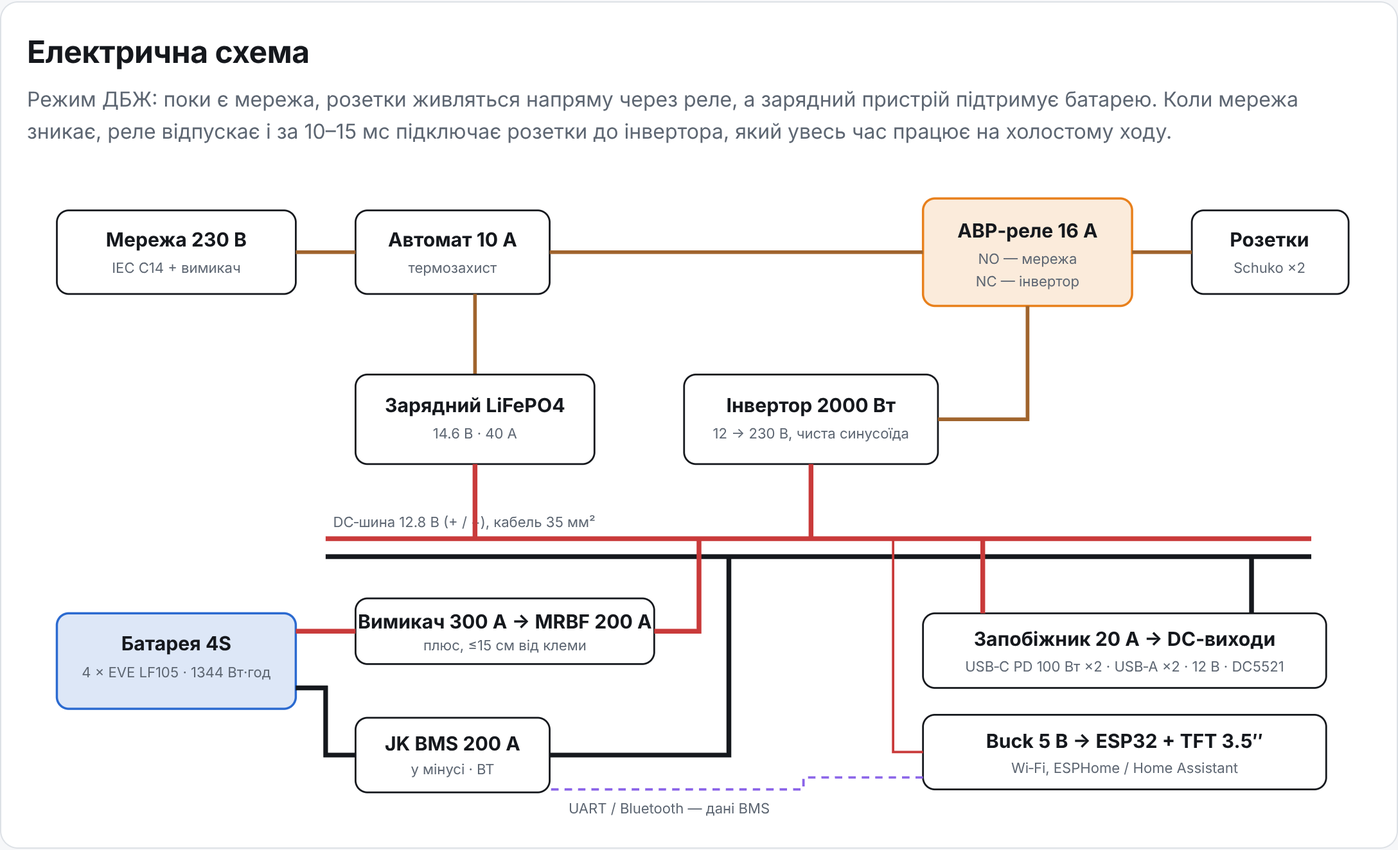
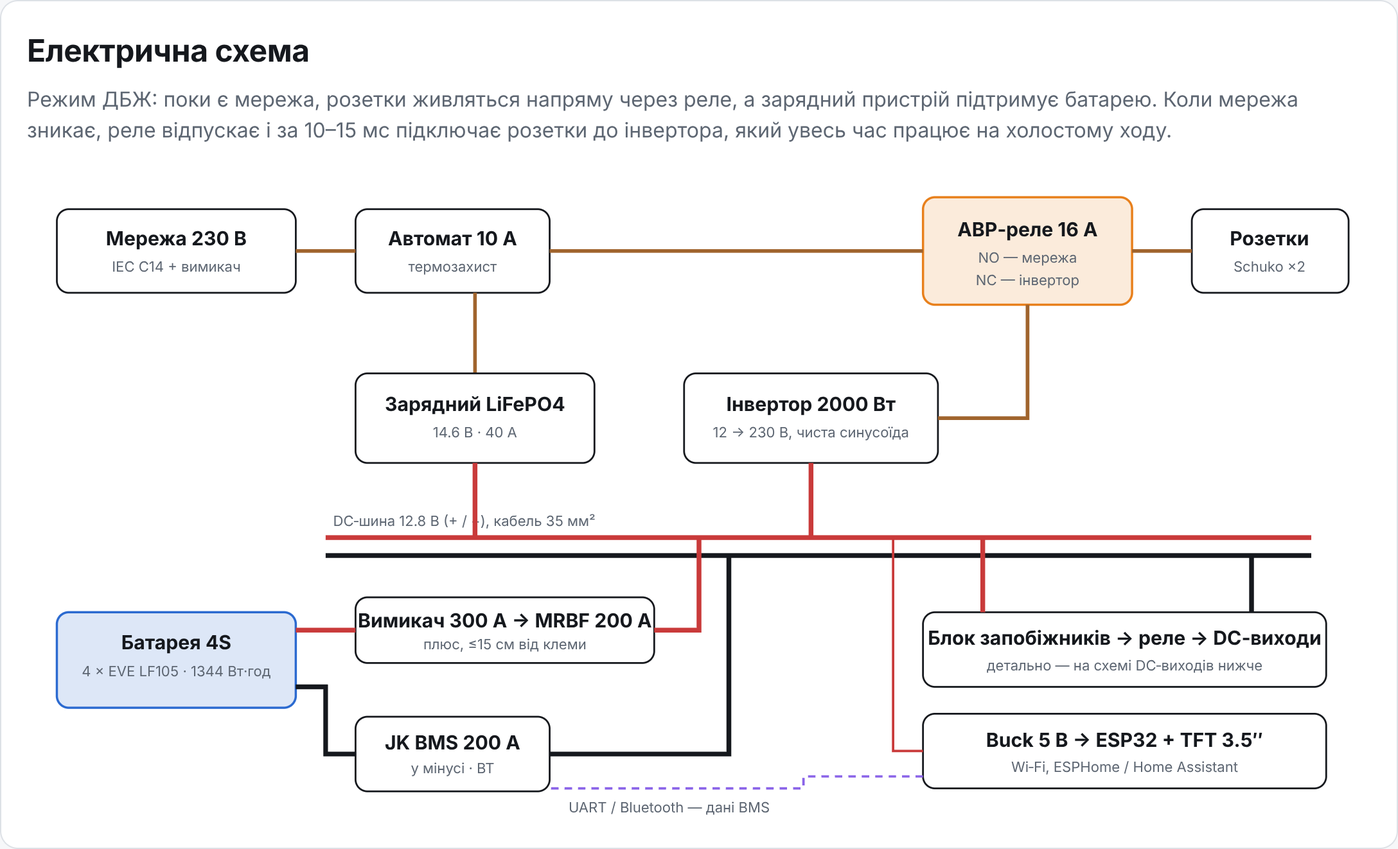
Add DC outputs wiring schematic and correct component prices
Separate schematic for USB-C PD, USB-A, 12 V socket, DC5521 and the
ESP32 display: group fuses, relays, branch fuses and wire gauges.
Prices re-checked against Ukrainian shops; economy variant now uses
an all-in-one inverter-charger.

Claude-Session: https://claude.ai/code/session_01UmbRrnoCQJSEiTBZB31uVX

diff --git a/index.html b/index.html
@@ -138,7 +138,7 @@ a{color:var(--blue)}
       <tr><td>DC‑виходи</td><td>USB‑C PD 100 Вт ×2, USB‑A QC ×2, прикурювач 12 В, DC5521 ×2</td></tr>
       <tr><td>Моніторинг</td><td>кольоровий дисплей + Bluetooth (BMS) + Wi‑Fi (ESP32 / Home Assistant)</td></tr>
       <tr><td>Вага / формат</td><td>компакт, ≈15 кг, ручка зверху</td></tr>
-      <tr><td>Бюджет</td><td>до 20 000 грн (вкладається варіант «Економ»)</td></tr>
+      <tr><td>Бюджет</td><td>до 20 000 грн. Після перевірки цін найдешевший варіант коштує ≈24 тис.</td></tr>
       <tr><td>? Сонце / авто</td><td>не потрібно зараз; місце під MPPT залишено на задній панелі</td></tr>
     </tbody></table>
   </div>
@@ -300,7 +300,7 @@ a{color:var(--blue)}
     <path d="M180 312 H220" class="w-dcp"/><path d="M420 312 H450 V250" class="w-dcp"/>
     <path d="M180 350 H200 V395 H220" class="w-dcn"/><path d="M350 395 H470 V262" class="w-dcn"/>
     <!-- outputs -->
-    <rect x="600" y="300" width="270" height="50" rx="8" class="w-box"/><text x="735" y="322" text-anchor="middle" class="t-h">Запобіжник 20 А → DC‑виходи</text><text x="735" y="339" text-anchor="middle" class="t-s">USB‑C PD 100 Вт ×2 · USB‑A ×2 · 12 В · DC5521</text>
+    <rect x="600" y="300" width="270" height="50" rx="8" class="w-box"/><text x="735" y="322" text-anchor="middle" class="t-h">Блок запобіжників → реле → DC‑виходи</text><text x="735" y="339" text-anchor="middle" class="t-s">детально — на схемі DC‑виходів нижче</text>
     <rect x="600" y="368" width="270" height="50" rx="8" class="w-box"/><text x="735" y="390" text-anchor="middle" class="t-h">Buck 5 В → ESP32 + TFT 3.5″</text><text x="735" y="407" text-anchor="middle" class="t-s">Wi‑Fi, ESPHome / Home Assistant</text>
     <path d="M640 250 V300" class="w-dcp"/><path d="M820 262 V300" class="w-dcn"/>
     <path d="M580 250 V393 H600" class="w-dcp" style="stroke-width:1.6"/>
@@ -309,9 +309,69 @@ a{color:var(--blue)}
   </div>
 </section>
 
+
+<section class="card" id="dc">
+  <h2>Схема DC‑виходів: USB, 12 В, дисплей</h2>
+  <p class="sub">Усі низьковольтні виходи живляться від тієї ж DC‑шини 12.8 В, що й інвертор, але через власні запобіжники. Три групи: <b>USB</b> і <b>12 В</b> вмикаються кнопками на передній панелі через автомобільні реле, а <b>логіка</b> (дисплей, ESP32, вентилятори) живиться завжди, поки увімкнена BMS.</p>
+  <div class="scroll">
+  <svg class="draw" viewBox="0 0 900 570" style="min-width:760px" role="img" aria-label="Схема DC-виходів">
+    <!-- шини -->
+    <path d="M60 30 V465" class="w-dcp"/><text x="20" y="22" class="t-s">DC+ (після MRBF 200 А і вимикача)</text>
+    <path d="M100 50 V540 H875 V80" class="w-dcn"/><text x="108" y="557" class="t-s">DC− шина (BMS P−). Мінуси всіх виходів — сюди, тим самим перерізом, що й плюс. Ніколи не на B− батареї!</text>
+    <!-- групові запобіжники -->
+    <path d="M60 150 H150" class="w-dcp" style="stroke-width:2.4"/><rect x="150" y="132" width="90" height="36" rx="6" class="w-box"/><text x="195" y="148" text-anchor="middle" class="t-h">F1 25 А</text><text x="195" y="161" text-anchor="middle" class="t-s">група USB</text>
+    <path d="M60 325 H150" class="w-dcp" style="stroke-width:2.4"/><rect x="150" y="307" width="90" height="36" rx="6" class="w-box"/><text x="195" y="323" text-anchor="middle" class="t-h">F2 20 А</text><text x="195" y="336" text-anchor="middle" class="t-s">група 12 В</text>
+    <path d="M60 465 H150" class="w-dcp" style="stroke-width:1.6"/><rect x="150" y="447" width="90" height="36" rx="6" class="w-box"/><text x="195" y="463" text-anchor="middle" class="t-h">F3 3 А</text><text x="195" y="476" text-anchor="middle" class="t-s">логіка</text>
+    <text x="70" y="143" class="t-s">4 мм²</text><text x="70" y="318" class="t-s">4 мм²</text><text x="106" y="458" class="t-s">0.75 мм²</text>
+    <!-- реле -->
+    <path d="M240 150 H290" class="w-dcp" style="stroke-width:2.4"/><rect x="290" y="112" width="110" height="76" rx="8" class="w-acc"/><text x="345" y="138" text-anchor="middle" class="t-h">Реле USB</text><text x="345" y="155" text-anchor="middle" class="t-s">12 В 40 А (30→87)</text><text x="345" y="170" text-anchor="middle" class="t-s">котушка 85/86</text>
+    <path d="M240 325 H290" class="w-dcp" style="stroke-width:2.4"/><rect x="290" y="287" width="110" height="76" rx="8" class="w-acc"/><text x="345" y="313" text-anchor="middle" class="t-h">Реле 12 В</text><text x="345" y="330" text-anchor="middle" class="t-s">12 В 40 А (30→87)</text><text x="345" y="345" text-anchor="middle" class="t-s">котушка 85/86</text>
+    <!-- кнопки -->
+    <rect x="270" y="395" width="150" height="40" rx="8" class="w-box"/><text x="345" y="412" text-anchor="middle" class="t-h">Кнопки «USB», «12V»</text><text x="345" y="426" text-anchor="middle" class="t-s">16 мм, з фіксацією, LED</text>
+    <path d="M300 395 V363" class="w-sig"/><path d="M410 395 V200 H380 V188" class="w-sig"/>
+    <text x="232" y="385" class="t-s">0.5 мм², ≈0.15 А</text>
+    <!-- розгалуження -->
+    <path d="M400 150 H425 M425 80 V220" class="w-dcp" style="stroke-width:2.4"/>
+    <path d="M400 325 H425 M425 290 V360" class="w-dcp" style="stroke-width:2.4"/>
+    <path d="M240 465 H425 M425 430 V500" class="w-dcp" style="stroke-width:1.6"/>
+    <!-- гілкові запобіжники + виходи -->
+    <g>
+      <path d="M425 80 H450 M540 80 H590" class="w-dcp" style="stroke-width:1.8"/><rect x="450" y="66" width="90" height="28" rx="6" class="w-box"/><text x="495" y="84" text-anchor="middle">10 А</text><text x="545" y="74" class="t-s">1.5 мм²</text>
+      <rect x="590" y="58" width="260" height="44" rx="8" class="w-box"/><text x="720" y="76" text-anchor="middle" class="t-h">USB‑C PD 100 Вт #1</text><text x="720" y="92" text-anchor="middle" class="t-s">вхід 9–30 В, ≈8.5 А при 100 Вт</text>
+      <path d="M425 150 H450 M540 150 H590" class="w-dcp" style="stroke-width:1.8"/><rect x="450" y="136" width="90" height="28" rx="6" class="w-box"/><text x="495" y="154" text-anchor="middle">10 А</text><text x="545" y="144" class="t-s">1.5 мм²</text>
+      <rect x="590" y="128" width="260" height="44" rx="8" class="w-box"/><text x="720" y="146" text-anchor="middle" class="t-h">USB‑C PD 100 Вт #2</text><text x="720" y="162" text-anchor="middle" class="t-s">вхід 9–30 В, ≈8.5 А при 100 Вт</text>
+      <path d="M425 220 H450 M540 220 H590" class="w-dcp" style="stroke-width:1.4"/><rect x="450" y="206" width="90" height="28" rx="6" class="w-box"/><text x="495" y="224" text-anchor="middle">5 А</text><text x="545" y="214" class="t-s">0.75 мм²</text>
+      <rect x="590" y="198" width="260" height="44" rx="8" class="w-box"/><text x="720" y="216" text-anchor="middle" class="t-h">USB‑A QC3.0 × 2</text><text x="720" y="232" text-anchor="middle" class="t-s">2 × 18 Вт, ≈3 А</text>
+      <path d="M425 290 H450 M540 290 H590" class="w-dcp" style="stroke-width:2.2"/><rect x="450" y="276" width="90" height="28" rx="6" class="w-box"/><text x="495" y="294" text-anchor="middle">15 А</text><text x="545" y="284" class="t-s">2.5 мм²</text>
+      <rect x="590" y="268" width="260" height="44" rx="8" class="w-box"/><text x="720" y="286" text-anchor="middle" class="t-h">Прикурювач 12 В</text><text x="720" y="302" text-anchor="middle" class="t-s">до 10 А, напряму від батареї (12–14.4 В)</text>
+      <path d="M425 360 H450 M540 360 H590" class="w-dcp" style="stroke-width:1.6"/><rect x="450" y="346" width="90" height="28" rx="6" class="w-box"/><text x="495" y="364" text-anchor="middle">5 А</text><text x="545" y="354" class="t-s">1 мм²</text>
+      <rect x="590" y="338" width="260" height="44" rx="8" class="w-box"/><text x="720" y="356" text-anchor="middle" class="t-h">DC5521 × 2</text><text x="720" y="372" text-anchor="middle" class="t-s">роутер, LED, камера — до 5 А сумарно</text>
+      <path d="M425 430 H590" class="w-dcp" style="stroke-width:1.4"/>
+      <rect x="590" y="408" width="260" height="44" rx="8" class="w-bat"/><text x="720" y="426" text-anchor="middle" class="t-h">Buck 12→5 В 3 А → ESP32‑S3 + TFT 3.5″</text><text x="720" y="442" text-anchor="middle" class="t-s">SOC, Вт, час · Wi‑Fi / Home Assistant</text>
+      <path d="M425 500 H590" class="w-dcp" style="stroke-width:1.4"/>
+      <rect x="590" y="478" width="260" height="44" rx="8" class="w-box"/><text x="720" y="496" text-anchor="middle" class="t-h">MOSFET → вентилятори 80 мм × 2</text><text x="720" y="512" text-anchor="middle" class="t-s">PWM від ESP32 за датчиками NTC</text>
+      <path d="M720 452 V478" class="w-sig"/>
+      <path d="M850 80 H875 M850 150 H875 M850 220 H875 M850 290 H875 M850 360 H875 M850 430 H875 M850 500 H875" class="w-dcn" style="stroke-width:1.6"/>
+    </g>
+    <path d="M590 420 H556 V398" class="w-sig"/><text x="430" y="395" class="t-s">UART ← JK BMS (GPS‑порт, TTL): В, А, SOC, °C</text>
+  </svg>
+  </div>
+  <div class="scroll" style="margin-top:14px"><table class="tbl">
+    <thead><tr><th>Вихід</th><th class="num">Струм</th><th class="num">Запобіжник</th><th class="num">Провід (+ і −)</th><th>Що важливо</th></tr></thead>
+    <tbody>
+      <tr><td>USB‑C PD 100 Вт ×2</td><td class="num">≈8.5 А кожен</td><td class="num">10 А</td><td class="num">1.5 мм²</td><td>Модуль має працювати від <b>9–30 В</b>. Батарея дає 10–14.6 В, і модулі «тільки 12 В» вимикаються на розрядженій батареї.</td></tr>
+      <tr><td>USB‑A QC3.0 ×2</td><td class="num">≈3 А</td><td class="num">5 А</td><td class="num">0.75 мм²</td><td>Можна взяти готову врізну панель «USB‑C + USB‑A + вольтметр».</td></tr>
+      <tr><td>Прикурювач 12 В</td><td class="num">до 10 А</td><td class="num">15 А</td><td class="num">2.5 мм²</td><td>Напряму від батареї, без стабілізатора. Для автохолодильника це нормально.</td></tr>
+      <tr><td>DC5521 ×2</td><td class="num">до 5 А</td><td class="num">5 А</td><td class="num">1 мм²</td><td>Роутеру на 12 В зазвичай достатньо, але деякі моделі не терплять 14.4 В під час заряду. Тоді ставте DC‑DC 12 В.</td></tr>
+      <tr><td>ESP32 + дисплей</td><td class="num">≈0.3 А</td><td class="num">3 А (F3)</td><td class="num">0.75 мм²</td><td>Живиться завжди. Без мережі споживає ≈4 Вт, тобто ≈1% батареї на добу.</td></tr>
+      <tr><td>Котушки реле</td><td class="num">≈0.15 А</td><td class="num">—</td><td class="num">0.5 мм²</td><td>Кнопка розмикає «+» котушки (85), а 86 іде на DC−. Паралельно котушці поставте діод 1N4007.</td></tr>
+    </tbody></table></div>
+  <p class="note">Групові реле потрібні, щоб вимкнені USB і 12 В нічого не споживали (модулі PD мають холостий струм 10–30 мА). Головну кнопку живлення на передній панелі підключіть до входу вмикання BMS, якщо він є у вашої моделі, а якщо ні — до потужного DC‑контактора. Переріз розраховано на довжину до 0.5 м.</p>
+</section>
+
 <section class="card">
   <h2>Комплектуючі та ціни</h2>
-  <p class="sub">Орієнтовні роздрібні ціни в Україні (prom.ua, rozetka, NKON), листопад 2026. Перед покупкою звірте на hotline.ua — ціни на комірки й інвертори коливаються на ±15–20%.</p>
+  <p class="sub">Ціни звірено з українськими магазинами (220volt, rozetka, prom.ua, eva.ua) та сайтами виробників. Імпортні позиції (PowMr, комірки з NKON) вказано з орієнтовною доставкою. Ціни коливаються на ±15–20%, тож перед покупкою перевірте їх ще раз.</p>
   <div class="tabs" id="bomTabs"></div>
   <div class="kpis" id="bomKpis"></div>
   <div class="scroll"><table class="tbl" id="bomTable"></table></div>
@@ -326,7 +386,7 @@ a{color:var(--blue)}
   <div class="bars" id="cmpBars"></div>
   <div class="grid2" style="margin-top:18px">
     <div class="card ok"><h3 style="margin-top:0">Що DIY робить краще</h3><ul class="tight">
-      <li>На 30–50% дешевше за кВт·год, а ємність на третину більша.</li>
+      <li>«Економ» дешевший за бренди на 30–45% за кВт·год, «Оптимальний» коштує приблизно стільки ж. Зате ємність на третину більша.</li>
       <li>Ремонтопридатність: кожен вузол стандартний, його можна замінити окремо.</li>
       <li>Апгрейд: другу батарею, MPPT або 24 В можна додати пізніше.</li>
       <li>Відкритий моніторинг (ESPHome, Home Assistant) без хмари виробника.</li>
@@ -379,58 +439,61 @@ a{color:var(--blue)}
 <script>
 const BOM = {
   econ: {
-    name: 'Економ', weight: '≈14.5 кг', power: '1500 Вт (пік 3000)', charge: '20 А · ≈5 год',
-    note: 'Вкладається в бюджет 20 000 грн. Тривале навантаження до ~1.3 кВт, заряд повільніший.',
+    name: 'Економ', weight: '≈15 кг', power: '1600 Вт (тривало ≈1.3 кВт)', charge: 'від мережі, вбудований',
+    note: 'Замість окремих інвертора, зарядного й реле — один блок «все‑в‑одному» з ДБЖ (PowMr). Так дешевше й простіше, але блок імпортний і без української гарантії. Компоновка в 3D показує модульний варіант, у цьому місце інвертора і зарядного займає один блок.',
     items: [
       ['Батарея', '4 × EVE LF105, 3.2 В 105 А·год, Grade A (1344 Вт·год)', 4, 1700],
       ['Батарея', 'Smart BMS 4S 150 А з Bluetooth (JBD / Daly)', 1, 1600],
-      ['Силова', 'Інвертор 12 В → 230 В, 1500 Вт, чиста синусоїда (пік 3000 Вт)', 1, 4500],
-      ['Силова', 'Зарядний пристрій LiFePO4 14.6 В 20 А', 1, 1500],
-      ['Силова', 'АВР: реле 230 В 16 А 2P (Finder 56.32) + колодка', 1, 450],
+      ['Силова', 'Інвертор‑зарядний PowMr POW‑HVM2H‑12V‑N 1600 Вт, чиста синусоїда, ДБЖ (≈$209 + доставка)', 1, 10000],
       ['Силова', 'Запобіжник ANL 150 А + тримач', 1, 350],
       ['Силова', 'Вимикач АКБ 300 А', 1, 350],
       ['Силова', 'Кабель 25 мм² (2 м) + мідні наконечники + термоусадка', 1, 600],
-      ['Виходи', 'Панель USB‑C PD 65 Вт + 2 × USB‑A QC3.0 (вхід 12 В)', 1, 450],
-      ['Виходи', 'Прикурювач 12 В + 2 × DC5521 + вимикач', 1, 250],
-      ['Виходи', 'Ввід IEC C14 з вимикачем + автомат 10 А + 2 розетки Schuko', 1, 450],
+      ['DC‑виходи', 'Врізна панель USB‑C PD + USB‑A QC3.0 + вольтметр (12–24 В)', 1, 380],
+      ['DC‑виходи', 'Прикурювач 12 В + 2 × DC5521', 1, 250],
+      ['DC‑виходи', 'Блок запобіжників 6 ліній, реле 12 В 40 А × 2, кнопки з фіксацією × 2', 1, 600],
+      ['DC‑виходи', 'Силіконовий провід 0.75–4 мм², клеми', 1, 250],
+      ['AC', 'Ввід IEC C14 + автомат 10 А + 2 розетки Schuko', 1, 450],
       ['Моніторинг', 'ESP32 + TFT 2.8″ + buck 5 В (ESPHome)', 1, 500],
       ['Корпус', 'Фанера 10 мм / алюм. кутик + ручка + ніжки + фарба', 1, 1200],
-      ['Корпус', 'Вентилятори 80 мм × 2 + термореле', 1, 200],
+      ['Корпус', 'Вентилятори 80 мм × 2 + MOSFET‑модуль', 1, 250],
       ['Корпус', 'Шини, стяжні пластини, шпильки, ізоляція, кріплення', 1, 400],
     ]
   },
   opt: {
-    name: 'Оптимальний', weight: '≈15.5 кг', power: '2000 Вт (пік 4000)', charge: '40 А · ≈2.5 год',
-    note: 'Рекомендований варіант саме під ваше ТЗ: 2 кВт, швидкий заряд, гарний корпус. Перевищує бюджет на ~8–9 тис. грн. Найбільше можна заощадити на корпусі (фанера) і дисплеї.',
+    name: 'Оптимальний', weight: '≈15.5 кг', power: '2000 Вт (тривало ≈1.5 кВт)', charge: '40 А · ≈2.5 год',
+    note: 'Модульна схема, як на 3D і кресленнях. Найдорожчі позиції — інвертор і зарядний. Інвертор 2 кВт з чистою синусоїдою в українських магазинах коштує 18–19 тис. (Lvyuan, Елім), тому тут закладено імпортний PowMr. Альтернатива: MUST PV18‑1512VPM за ≈14.4 тис. замінює інвертор, зарядний і реле одним блоком (1.5 кВт), але перевірте його габарити.',
     items: [
       ['Батарея', '4 × EVE LF105, Grade A, з QR‑кодами та тестом ємності', 4, 1800],
       ['Батарея', 'JK BMS B2A8S20P 200 А, активний баланс 2 А, BT + RS485', 1, 2550],
-      ['Силова', 'Інвертор 12 В → 230 В, 2000 Вт, чиста синусоїда (пік 4000 Вт)', 1, 7700],
-      ['Силова', 'Зарядний пристрій LiFePO4 14.6 В 40 А', 1, 2800],
-      ['Силова', 'АВР: Finder 56.32 230 В 16 А + DIN‑рейка + 2 автомати 10 А', 1, 700],
-      ['Силова', 'Запобіжник MRBF 200 А + тримач на клему', 1, 500],
-      ['Силова', 'Вимикач АКБ 300 А', 1, 450],
+      ['Силова', 'Інвертор PowMr POW‑HV2K‑12V‑EU 2000 Вт, чиста синусоїда (≈$129 + доставка)', 1, 7000],
+      ['Силова', 'Зарядний LogicPower LiFePO4 12 В (14.6 В) 40 А 480 Вт', 1, 5938],
+      ['Силова', 'АВР: Finder 56.32.8.230 + колодка на DIN + 2 автомати 10 А', 1, 1500],
+      ['Силова', 'Запобіжник Bussmann MRBF‑200 + клемний тримач', 1, 600],
+      ['Силова', 'Вимикач АКБ 300 А', 1, 700],
       ['Силова', 'Кабель 35 мм² (2 м) + мідні шини + наконечники', 1, 1000],
-      ['Виходи', '2 × USB‑C PD 100 Вт + 2 × USB‑A QC3.0 (модулі 12–24 В)', 1, 900],
-      ['Виходи', 'Прикурювач 12 В + 2 × DC5521 + вимикач з підсвіткою', 1, 300],
-      ['Виходи', 'Ввід IEC C14 + запобіжник + 2 розетки Schuko', 1, 500],
-      ['Моніторинг', 'ESP32‑S3 + TFT 3.5″ + buck 5 В (ESPHome, jk‑bms)', 1, 900],
+      ['DC‑виходи', '2 × USB‑C PD 100 Вт (вхід 9–30 В) + 2 × USB‑A QC3.0', 1, 1200],
+      ['DC‑виходи', 'Прикурювач 12 В + 2 × DC5521', 1, 300],
+      ['DC‑виходи', 'Блок запобіжників 6 ліній, реле 12 В 40 А × 2, кнопки 16 мм з LED × 3', 1, 800],
+      ['DC‑виходи', 'Силіконовий провід 0.75–4 мм², клеми', 1, 300],
+      ['AC', 'Ввід IEC C14 з вимикачем і запобіжником + 2 розетки Schuko', 1, 500],
+      ['Моніторинг', 'ESP32‑S3 + TFT 3.5″ + buck 5 В (ESPHome, jk‑bms)', 1, 1200],
       ['Корпус', 'Гнутий алюміній 2 мм + порошкове фарбування + ручка (або 3D‑друк ASA)', 1, 2500],
-      ['Корпус', 'Вентилятори 80 мм PWM × 2 + датчики NTC', 1, 350],
+      ['Корпус', 'Вентилятори 80 мм PWM × 2 + MOSFET + NTC', 1, 400],
       ['Корпус', 'Шини, стяжні пластини, шпильки, ізоляція, кріплення', 1, 600],
     ]
   },
   prem: {
     name: 'Преміум (Victron)', weight: '≈23 кг', power: '1300 Вт тривало (пік 3000)', charge: '70 А · ≈1.5 год',
-    note: 'Справжній ДБЖ‑інвертор із трансформатором: перемикання до 20 мс, заряд 70 А, надійність «на роки». Але важкий і дорогий — у такому разі розумніше купити бренд.',
+    note: 'Справжній ДБЖ‑інвертор із трансформатором: перемикання до 20 мс, заряд 70 А. Важкий і вдвічі дорожчий за бренди, тому для портативної станції не рекомендую.',
     items: [
       ['Батарея', '4 × EVE LF105, Grade A', 4, 1800],
       ['Батарея', 'JK BMS B2A8S20P 200 А, BT + RS485', 1, 2550],
-      ['Силова', 'Victron MultiPlus 12/1600/70 (інвертор + зарядний 70 А + ДБЖ)', 1, 33000],
-      ['Силова', 'Запобіжник MRBF 200 А + вимикач 300 А + кабель 35 мм²', 1, 1950],
-      ['Виходи', 'USB‑C PD 100 Вт × 2, USB‑A × 2, 12 В, DC5521', 1, 1200],
-      ['Виходи', 'Ввід IEC C14 + 2 розетки Schuko', 1, 500],
-      ['Моніторинг', 'ESP32‑S3 + TFT 3.5″ (VE.Bus через MK3‑адаптер — окремо)', 1, 900],
+      ['Силова', 'Victron MultiPlus 12/1600/70‑16 (інвертор + зарядний 70 А + ДБЖ)', 1, 42201],
+      ['Силова', 'Запобіжник MRBF 200 А + вимикач 300 А + кабель 35 мм²', 1, 2300],
+      ['DC‑виходи', 'USB‑C PD 100 Вт × 2, USB‑A × 2, 12 В, DC5521', 1, 1500],
+      ['DC‑виходи', 'Блок запобіжників, реле, кнопки, провід', 1, 1100],
+      ['AC', 'Ввід IEC C14 + 2 розетки Schuko', 1, 500],
+      ['Моніторинг', 'ESP32‑S3 + TFT 3.5″', 1, 1200],
       ['Корпус', 'Алюміній 2 мм + фарбування + 2 ручки + вентилятори', 1, 3200],
       ['Корпус', 'Кріплення, ізоляція, шини', 1, 600],
     ]
@@ -467,7 +530,7 @@ renderBom('opt');
 
 (function renderCmp() {
   const diy = [
-    ['PowerBox DIY · Економ', 1344, '1500 (пік 3000)', '14.5', '10–15 мс (реле)', '≈5 год', total('econ'), true],
+    ['PowerBox DIY · Економ', 1344, '1600 (≈1.3 тривало)', '15', '≈10 мс (вбудований)', '≈3–5 год', total('econ'), true],
     ['PowerBox DIY · Оптимальний', 1344, '2000 (≈1.3–1.5 тривало)', '15.5', '10–15 мс (реле)', '≈2.5 год', total('opt'), true],
   ];
   const rows = [...BRANDS, ...diy];

diff --git a/README.md b/README.md
@@ -25,18 +25,19 @@
 ![Креслення в розрізі](renders/06-sections.png)
 ![Електрична схема](renders/07-wiring.png)
 
-## Варіанти комплектуючих (орієнтовно, листопад 2026)
+## Варіанти комплектуючих (ціни звірено з магазинами, листопад 2026)
 
 | | Економ | **Оптимальний** | Преміум (Victron) |
 |---|---|---|---|
-| Інвертор | 1500 Вт HF | 2000 Вт HF | MultiPlus 12/1600/70 |
+| Силова частина | PowMr 1600 Вт «все-в-одному» (інвертор + заряд + ДБЖ) | PowMr 2000 Вт + LogicPower 40 А + реле Finder | MultiPlus 12/1600/70 |
 | BMS | 150 А BT | JK 200 А BT, активний баланс | JK 200 А |
-| Заряд | 20 А, ≈5 год | 40 А, ≈2.5 год | 70 А, ≈1.5 год |
-| Вага | ≈14.5 кг | ≈15.5 кг | ≈23 кг |
-| **Ціна** | **≈19 600 грн** | **≈28 950 грн** | **≈51 800 грн** |
-| Ціна за кВт·год | ≈14.6 тис. | ≈21.5 тис. | ≈38.5 тис. |
+| Вага | ≈15 кг | ≈15.5 кг | ≈23 кг |
+| **Ціна** | **≈24 000 грн** | **≈34 300 грн** | **≈62 400 грн** |
+| Ціна за кВт·год | ≈17.8 тис. | ≈25.5 тис. | ≈46.4 тис. |
 
-Повний перелік позицій із цінами є в `index.html`, у розділі «Комплектуючі та ціни».
+Повний перелік позицій із цінами є в `index.html`, у розділі «Комплектуючі та ціни». Схема підключення USB, 12 В і дисплея — розділ «Схема DC-виходів»:
+
+![Схема DC-виходів](renders/08-dc-outputs.png)
 
 ## Порівняння з брендами (ціни орієнтовні)
 
@@ -46,8 +47,10 @@
 | Bluetti AC180 | 1152 | 1800 | 16 | 20 мс | 30 000 |
 | Anker SOLIX C1000 | 1056 | 1800 | 12.9 | <10 мс | 28 000 |
 | EcoFlow DELTA 3 Plus | 1024 | 1800 | 12.5 | 10 мс | 38 000 |
-| **DIY Економ** | 1344 | 1500 | 14.5 | 10–15 мс | 19 600 |
-| **DIY Оптимальний** | 1344 | 2000 | 15.5 | 10–15 мс | 28 950 |
+| **DIY Економ** | 1344 | 1600 | 15 | ≈10 мс | 24 000 |
+| **DIY Оптимальний** | 1344 | 2000 | 15.5 | 10–15 мс | 34 300 |
+
+Висновок: за кВт·год DIY-«Економ» дешевший за бренди на 30–45%, а «Оптимальний» коштує приблизно стільки ж. Головні переваги DIY — на третину більша ємність, ремонтопридатність і відкритий моніторинг.
 
 ## Головні застереження
 
